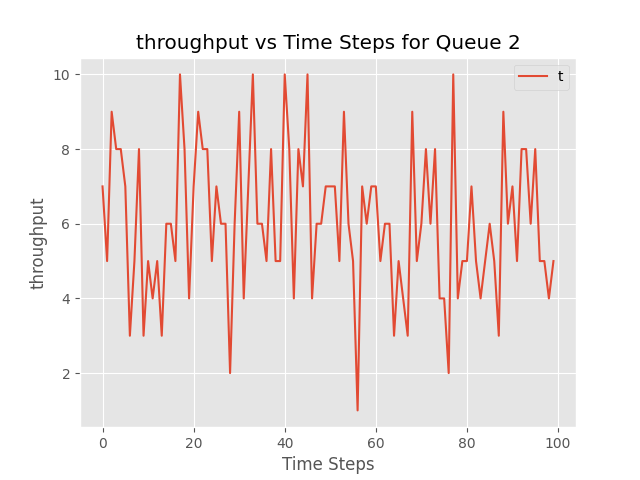
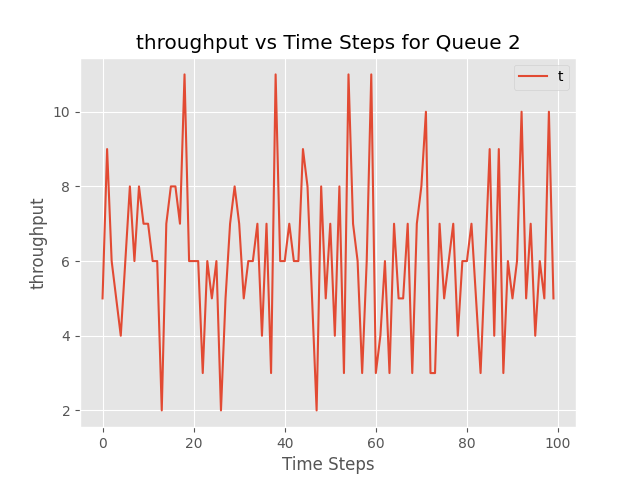
demonstrations code edited to include plotting prob and matching the new develop code

diff --git a/Supporting_files/dmonstrations.py b/Supporting_files/dmonstrations.py
@@ -9,9 +9,28 @@ import torch
 import matplotlib.pyplot as plt
 from environments.RL_Environment import *
 from queueing_network import * 
+from supporting_functions import create_simulation_env
 import numpy as np
+import copy
+import os 
 
-# This file contains all the demonstration classes for agent learning 
+class config():
+    # Creates the configuration object for the demonstrations 
+    def __init__(self, environment, agent, metric='throughput'): 
+        self.environment = environment 
+        self.agent = agent 
+        self.metric = metric 
+        self.device = torch.device("cuda" if torch.cuda.is_available() else "cpu")
+        self.queue_index = 2
+        self.queue_metrics = [] 
+        plt.ion()
+        self.fig, self.ax = plt.subplots()
+        self.ax.set(xlabel='Time Steps', ylabel = self.metric, title= self.metric + f' vs Time Steps for Queue {self.queue_index}')
+        
+    def retrieve_components(self):
+        # Getter function allowing other classes to access the environment and agent objects 
+        return self.environment , self.agent
+                    
                     
 class Network_Control():
     """
@@ -20,15 +39,17 @@ class Network_Control():
     - environment - testing RL Environment 
     - agent - trained agent with the learnt policy 
     """
-    def __init__(self , environment , agent):
+    def __init__(self , environment , agent, metric='throughput'):
         """
             Initiates the class with the environment and the agent 
         """
         self.environment = environment
         self.agent = agent
+        self.metric = metric 
         self.device = torch.device("cuda" if torch.cuda.is_available() else "cpu")
-        self.queue_index = 0
+        self.queue_index = 2
         self.queue_metrics = [] 
+        self.call_plot_num =0
         plt.ion()
         self.fig, self.ax = plt.subplots()
         self.ax.set(xlabel='Time Steps', ylabel = self.metric, title= self.metric + f' vs Time Steps for Queue {str(self.queue_index)}')
@@ -54,15 +75,31 @@ class Network_Control():
         plt.pause(0.01)
         plt.show()
         
-    def plot_queue(self, *queue_metrics_lists, labels):
-        """Plotting function that supports a variable number of queue metrics lists and labels."""
+    def plot_transition_proba(self, transition_proba_lists):
+        """Plotting function that supports a variable number of queue metrics lists and labels.""" 
+        self.ax.clear()  # Clear previous plots
+        self.ax.plot(transition_proba_lists)
+        self.ax.set(xlabel='Time Steps', ylabel='Transition Probability',
+                title=f'Transition Probability vs Time Steps for Queue {self.queue_index}')
+        self.ax.legend()  # Add a legend to differentiate the lines
+        figure_name = f'{self.call_plot_num}_plot_transition_proba.png'
+        #plt.show()
+        plt.savefig(figure_name)
+        self.call_plot_num+=1
+
+    def plot_queue(self, labels, *queue_metrics_lists):
+        """Plotting function that supports a variable number of queue metrics lists and labels.""" 
         self.ax.clear()  # Clear previous plots
         for queue_metrics, label in zip(queue_metrics_lists, labels):
             self.ax.plot(range(len(queue_metrics)), queue_metrics, label=label)
         self.ax.set(xlabel='Time Steps', ylabel=self.metric,
-                    title=self.metric + f' vs Time Steps for Queue {str(self.queue_index)}')
+                title=self.metric + f' vs Time Steps for Queue {self.queue_index}')
         self.ax.legend()  # Add a legend to differentiate the lines
-        plt.show()
+        figure_name = f'{self.call_plot_num}_plot_queue.png'
+        #plt.show()
+        plt.savefig(figure_name)
+        self.call_plot_num+=1
+
 
         
     def control(self, environment=None, agent=None, time_steps=None, queue_index=None, metric=None):
@@ -75,21 +112,25 @@ class Network_Control():
         time_steps = time_steps if time_steps is not None else self.time_steps
         queue_index = queue_index if queue_index is not None else self.queue_index
         metric = metric or self.metric
+        source_edge = environment.net.edge2queue[queue_index].edge[0]
+        target_edge = environment.net.edge2queue[queue_index].edge[1]
         queue_metrics = []
+        queue_transition_proba = [] 
         
         for time_step in range(time_steps): 
             state = environment.get_state()
-            action = agent.select_action(state).to(self.device)
-            environment.get_next_state(action)
+            action = agent.actor(state).detach()
+            state =environment.get_next_state(action)[0]
             queue_metrics.append(environment.return_queue(queue_index, metric=metric))
+            queue_transition_proba.append(environment.transition_proba[source_edge][target_edge])
             if time_step % 10 == 0:  # Corrected: to ensure it executes when time_step is a multiple of 10
                 # self.plot_queue() - this would be the real time plotting logic 
                 pass 
         
-        # self.plot_queue()  # Plot once after completing the loop
+        self.plot_queue(metric,queue_metrics)  # Plot once after completing the loop
+        self.plot_transition_proba(queue_transition_proba)
         return queue_metrics
 
-            
 class Static_Disruption(Network_Control):
     """
     This class extends Network_Control for demonstrations where the agent has to handle disruptions
@@ -97,10 +138,12 @@ class Static_Disruption(Network_Control):
     def __init__(self, environment, agent , source_node, target_node):
         super().__init__(environment, agent)
         # Initialize any additional variables or settings specific to disruptions
+        self.queue_index = 2
         self.standard_environment = environment
         self.disrupted_environment = self.deactivate_node(source_node,target_node)
         
     def deactivate_node(self,source_node, target_node):
+        
         q_classes = self.environment.qn_net.q_classes
         q_args = self.environment.qn_net.q_args 
         edge_list = self.environment.qn_net.edge_list 
@@ -109,9 +152,40 @@ class Static_Disruption(Network_Control):
         q_args[new_class] = {'service_f': lambda t: t+np.inf}
         edge_list[source_node][target_node] = new_class
 
-        environment2 = self.environment.deep_copy() 
-        self.environment.edge_list = edge_list
-        return environment2
+        org_net = self.environment.qn_net
+        new_net = copy.copy(org_net)
+        new_net.process_input(org_net.lamda, org_net.miu, q_classes, q_args, org_net.adja_list, 
+                        edge_list, org_net.transition_proba)
+        new_net.create_env()
+        dis_environment = RLEnv(qn_net=new_net, num_sim=5000)
+        
+        return dis_environment
+    
+    def plot_queue(self, labels, *queue_metrics_lists):
+        """Plotting function that supports a variable number of queue metrics lists and labels.""" 
+        self.fig, self.ax = plt.subplots()
+        self.ax.clear()  # Clear previous plots
+        for queue_metrics, label in zip(queue_metrics_lists, labels):
+            self.ax.plot(range(len(queue_metrics)), queue_metrics, label=label)
+        self.ax.set(xlabel='Time Steps', ylabel=self.metric,
+                title=self.metric + f' vs Time Steps for Queue {self.queue_index}')
+        self.ax.legend()  # Add a legend to differentiate the lines
+        figure_name = f'{self.call_plot_num}_plot_queue_sd.png'
+        #plt.show()
+        plt.savefig(figure_name)
+        self.call_plot_num+=1
+
+    def plot_transition_proba(self, transition_proba_lists):
+        """Plotting function that supports a variable number of queue metrics lists and labels.""" 
+        self.ax.clear()  # Clear previous plots
+        self.ax.plot(transition_proba_lists)
+        self.ax.set(xlabel='Time Steps', ylabel='Transition Probability',
+                title=f'Transition Probability vs Time Steps for Queue {self.queue_index}')
+        self.ax.legend()  # Add a legend to differentiate the lines
+        figure_name = f'{self.call_plot_num}_plot_transition_proba_sd.png'
+        #plt.show()
+        plt.savefig(figure_name)
+        self.call_plot_num+=1
         
     def multi_control(self):
         """
@@ -120,3 +194,19 @@ class Static_Disruption(Network_Control):
         normal_metrics = self.control(environment=self.standard_environment, agent=self.agent, time_steps=self.time_steps, queue_index=self.queue_index, metric=self.metric)
         disrupted_metrics = self.control(environment=self.disrupted_environment, agent=self.agent, time_steps=self.time_steps, queue_index=self.queue_index, metric=self.metric)
         self.plot_queue(normal_metrics, disrupted_metrics, labels=['Normal', 'Disrupted'])
+
+if __name__=="__main__": 
+    agent = torch.load('Supporting_files/Agent/trained_agent.pt')
+    config_param_filepath = 'user_config/configuration.yml'
+    eval_param_filepath = 'user_config/eval_hyperparams.yml'
+    env = create_simulation_env({'num_sim':5000}, config_param_filepath)
+    #env = get_env(n=5000)
+    nc = Network_Control(agent, env)
+    nc.plot_queue_realtime()
+    queue_metrics = nc.control(environment=env, agent=agent, time_steps=100, queue_index=2, metric='throughput')
+
+    ## Static Disruption 
+    sd = Static_Disruption(env, agent, 1, 3)
+    disrupted_env = sd.disrupted_environment
+    queue_metrics_dis = sd.control(environment=disrupted_env, agent=agent, time_steps=100, queue_index=2, metric='throughput')
+    breakpoint()

diff --git a/environments/RL_Environment.py b/environments/RL_Environment.py
@@ -304,14 +304,6 @@ class RLEnv:
             try:
                 return throughput
             except UnboundLocalError: 
-                return 0
-if __name__=="__main__": 
-    import sys
-    from pathlib import Path
-    # Get the absolute path of the parent directory (i.e., the root of your project)
-    root_dir = Path('/vol/bitbucket/fma23/MScProject/MScDataSparqProject').resolve().parent.parent
-    # Add the parent directory to sys.path
-    sys.path.append(str(root_dir))
-    breakpoint() 
+                return 0 
 
 
